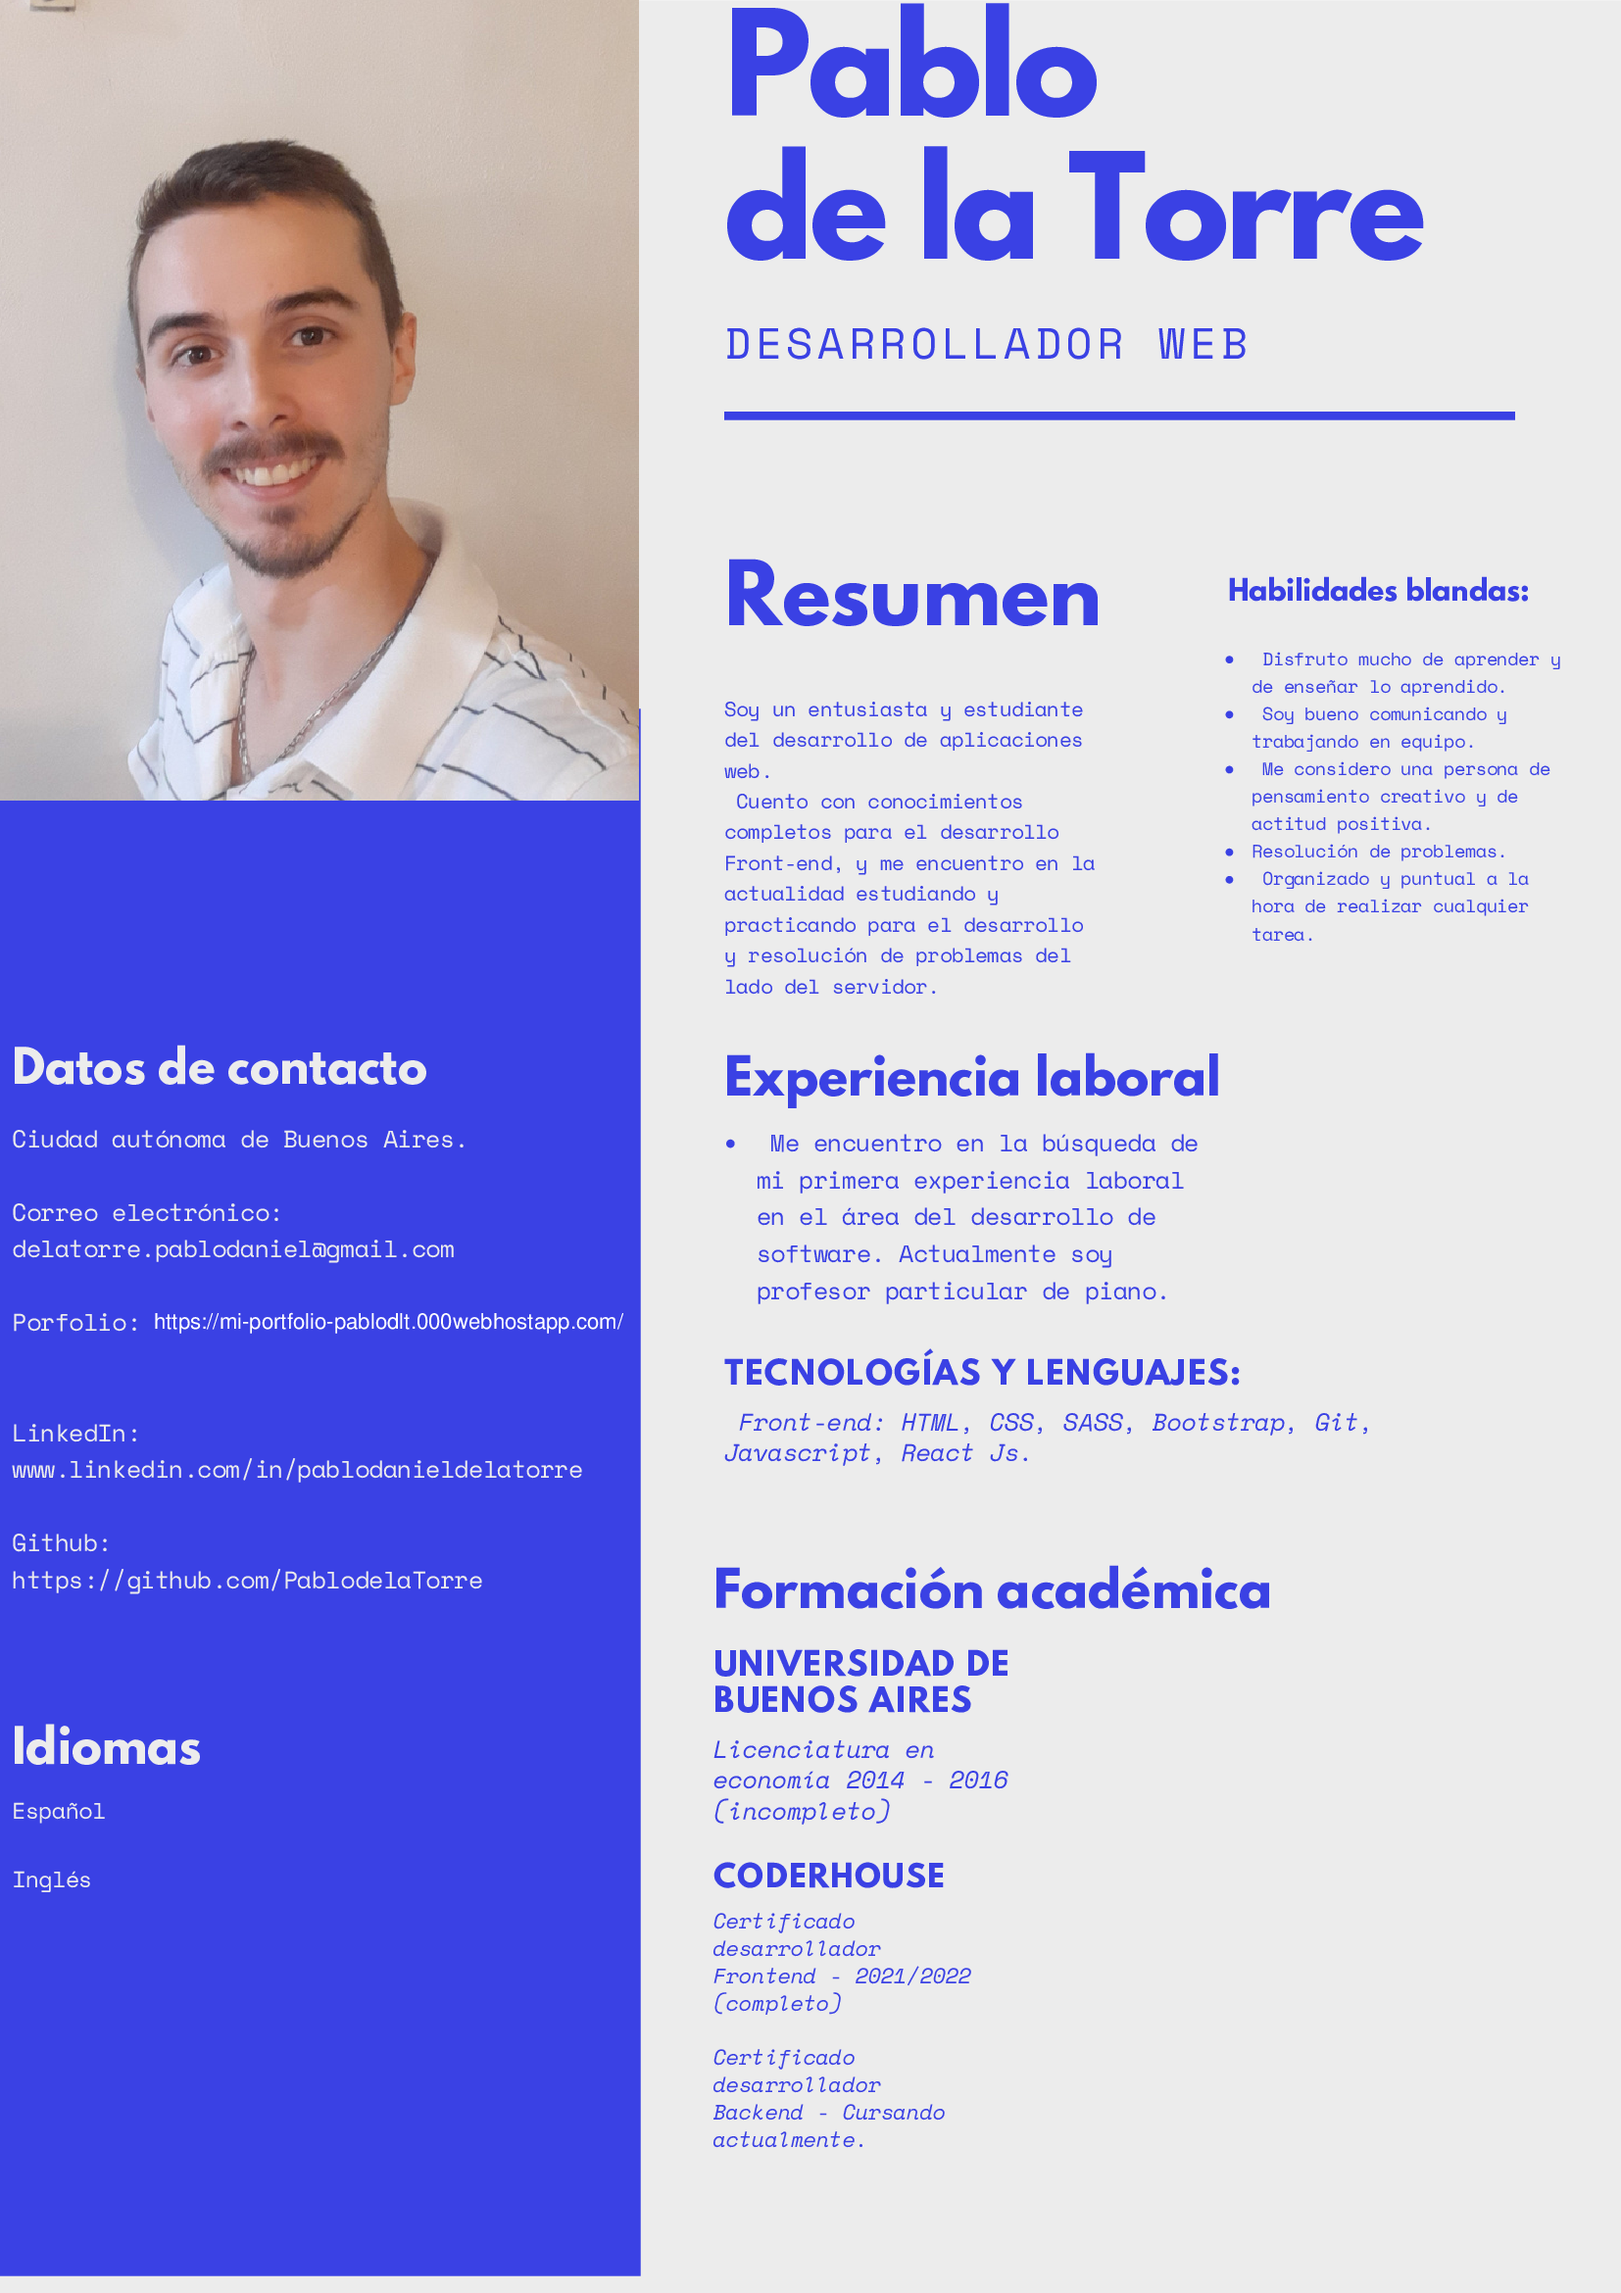
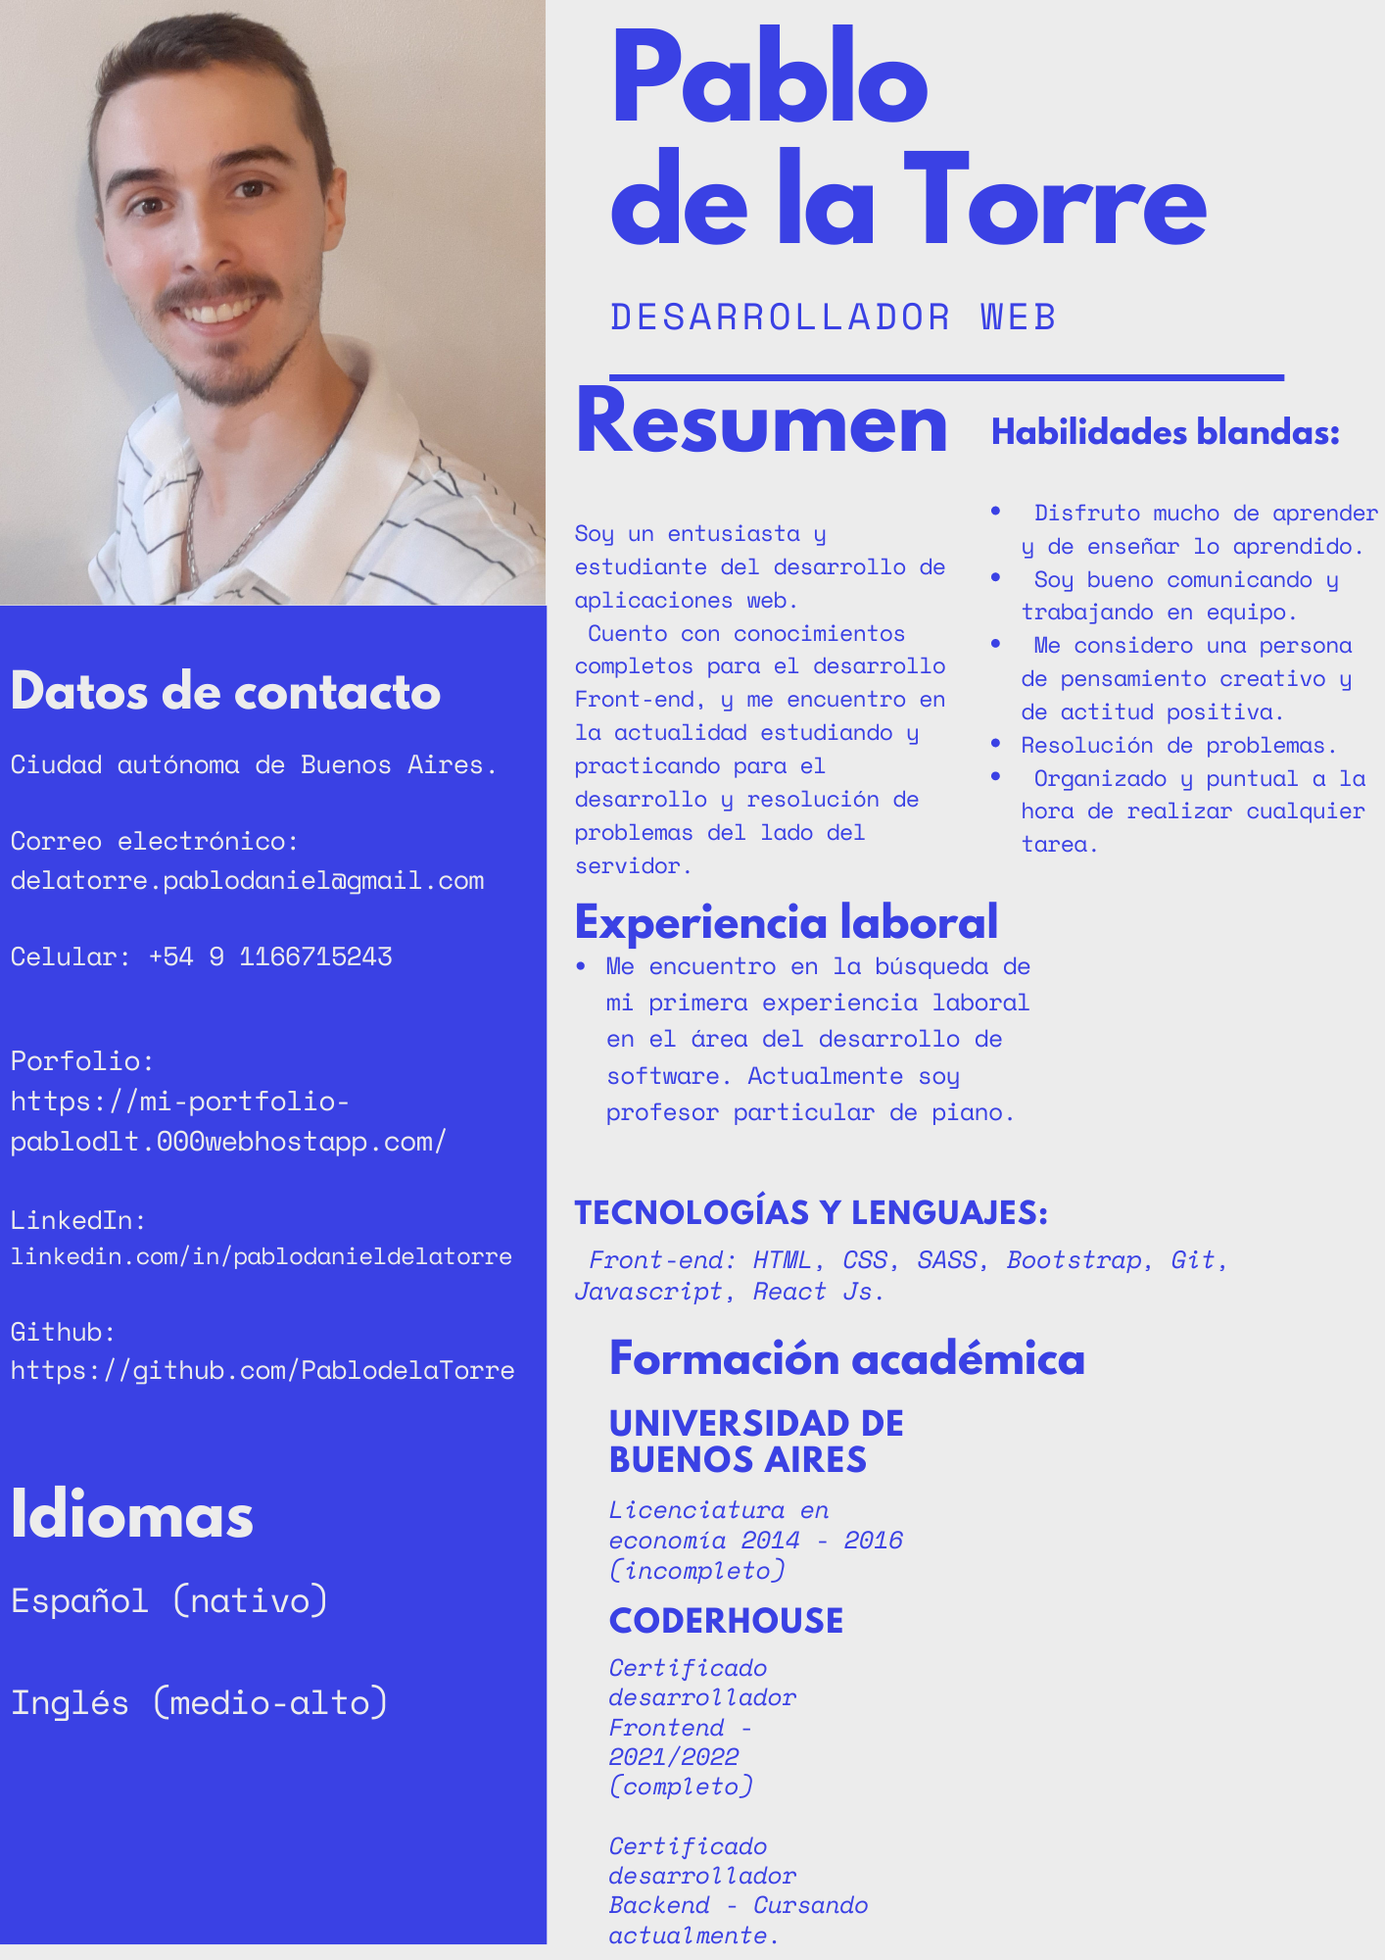
estilos mejorados, curriculum mejorado

diff --git a/index.html b/index.html
@@ -48,7 +48,7 @@
     
     <div class="container-fluid my-3 curriculum">
         <div class="row d-flex justify-content-center">
-            <img src="img/Curriculum-vitae-redimensionado.png" alt="" class="img-fluid">
+            <img src="img/curriculum-vitae.png" alt="" class="img-fluid">
         </div>
         <div class="row d-flex justify-content-center">
             <a href="img/curriculum-vitae.png" download class="w-50 boton-curriculum d-flex justify-content-center align-content-center mt-1">Descargar CV</a>
@@ -119,6 +119,7 @@
             <p class="fs-6 fw-bold d-flex justify-content-center">País: Argentina</p>
             <p class="fs-6 fw-bold d-flex justify-content-center">Ciudad: Ciudad Autónoma de Buenos Aires</p>
             <p class="fs-6 fw-bold d-flex justify-content-center">Mail: delatorre.pablodaniel@gmail.com</p>
+            <p class="fs-6 fw-bold d-flex justify-content-center">Celular: +54 9 1166715243</p>
         </div>
         <div class="row d-flex justify-content-end align-content-center mt-2">
             <p class="fs-2 fw-bold d-flex justify-content-center">Redes:</p>

diff --git a/css/style.css b/css/style.css
@@ -7832,7 +7832,7 @@ body {
   background-color: white; }
 
 .background-primario {
-  background-color: #469b9e; }
+  background-color: rgba(70, 155, 158, 0.5); }
 
 .lista-nav li {
   height: 100%;
@@ -7843,7 +7843,8 @@ body {
 
 .lista-nav a {
   color: white;
-  text-decoration: none; }
+  text-decoration: none;
+  font-size: 1.5rem; }
 
 .lista-nav li a:hover {
   color: black; }
@@ -7875,7 +7876,7 @@ body {
   height: 35px; }
 
 .altura-proyectos {
-  height: 10vh; }
+  height: 5vh; }
 
 .border-radius {
   border-radius: 5rem; }

diff --git a/scss/style.scss b/scss/style.scss
@@ -37,7 +37,7 @@ body {
 }
 
 .background-primario {
-    background-color: $--clr-primario;
+    background-color: rgba(70, 155, 158, 0.5);
 }
 
 .lista-nav li{
@@ -52,6 +52,7 @@ body {
 .lista-nav a{
     color: $--clr-nav;
     text-decoration: none;
+    font-size: 1.5rem;
 }
 
 .lista-nav li a:hover{
